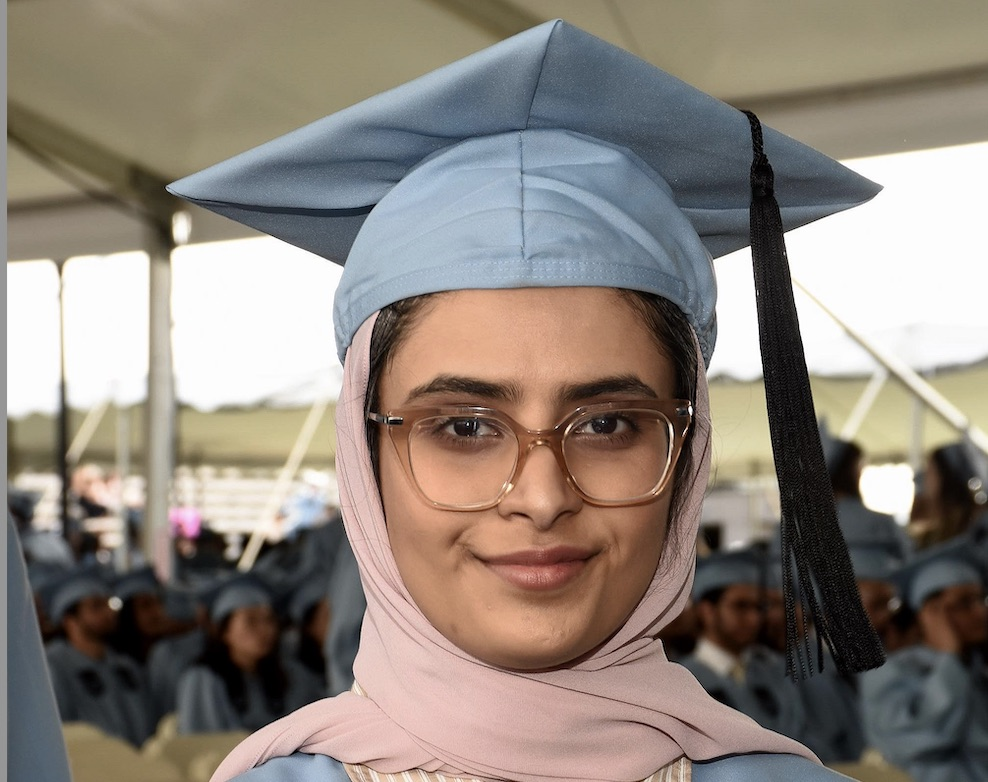
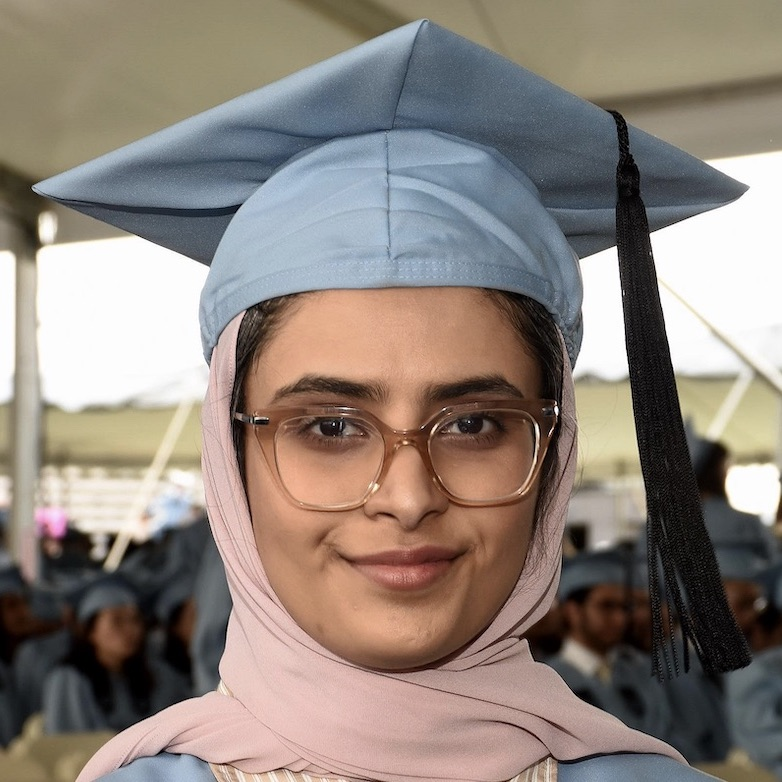
photos

diff --git a/_projects/12-minyang.md b/_projects/12-minyang.md
@@ -2,7 +2,7 @@
 layout: page
 title: Minyang<br>Tian
 description: UIUC
-img: assets/img/students/blue.jpeg
+img: assets/img/students/minyang.jpeg
 <!--- redirect: -->
 importance: 12
 category: "Student Collaborators"
